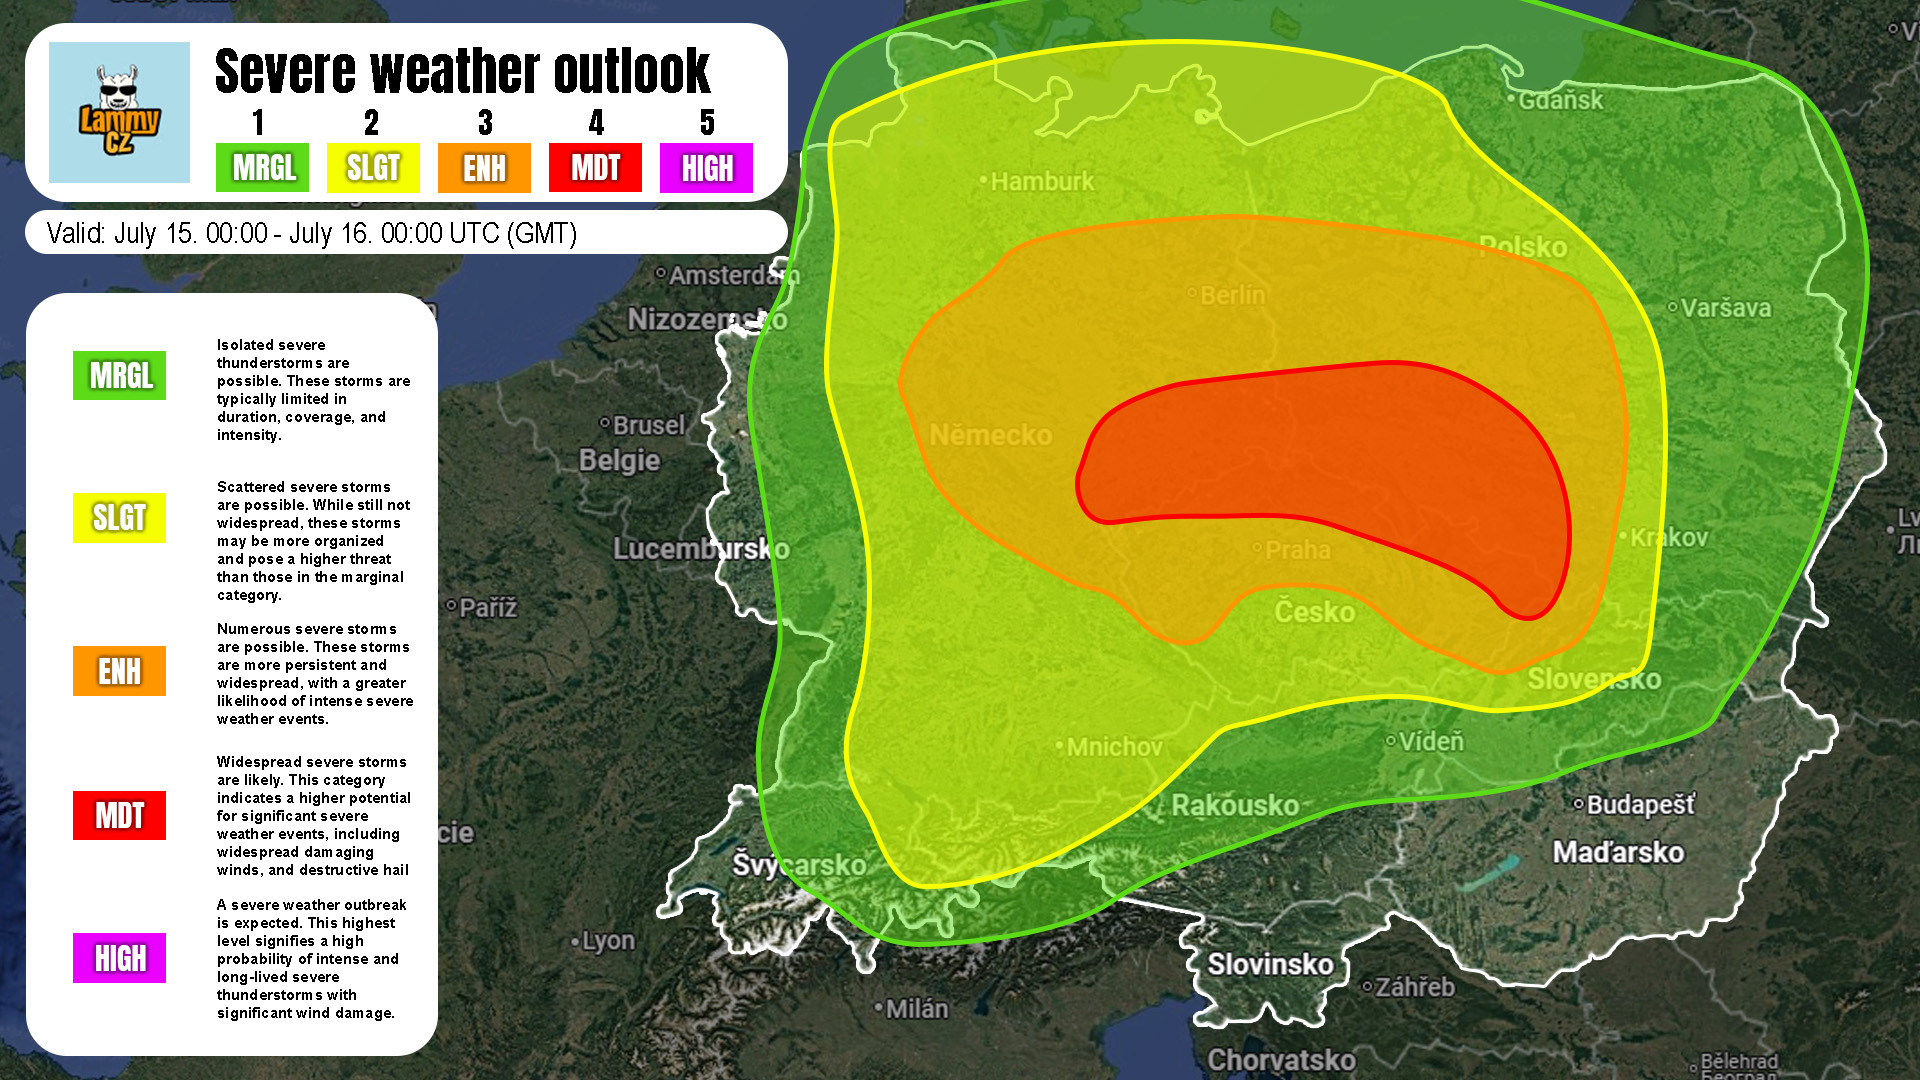
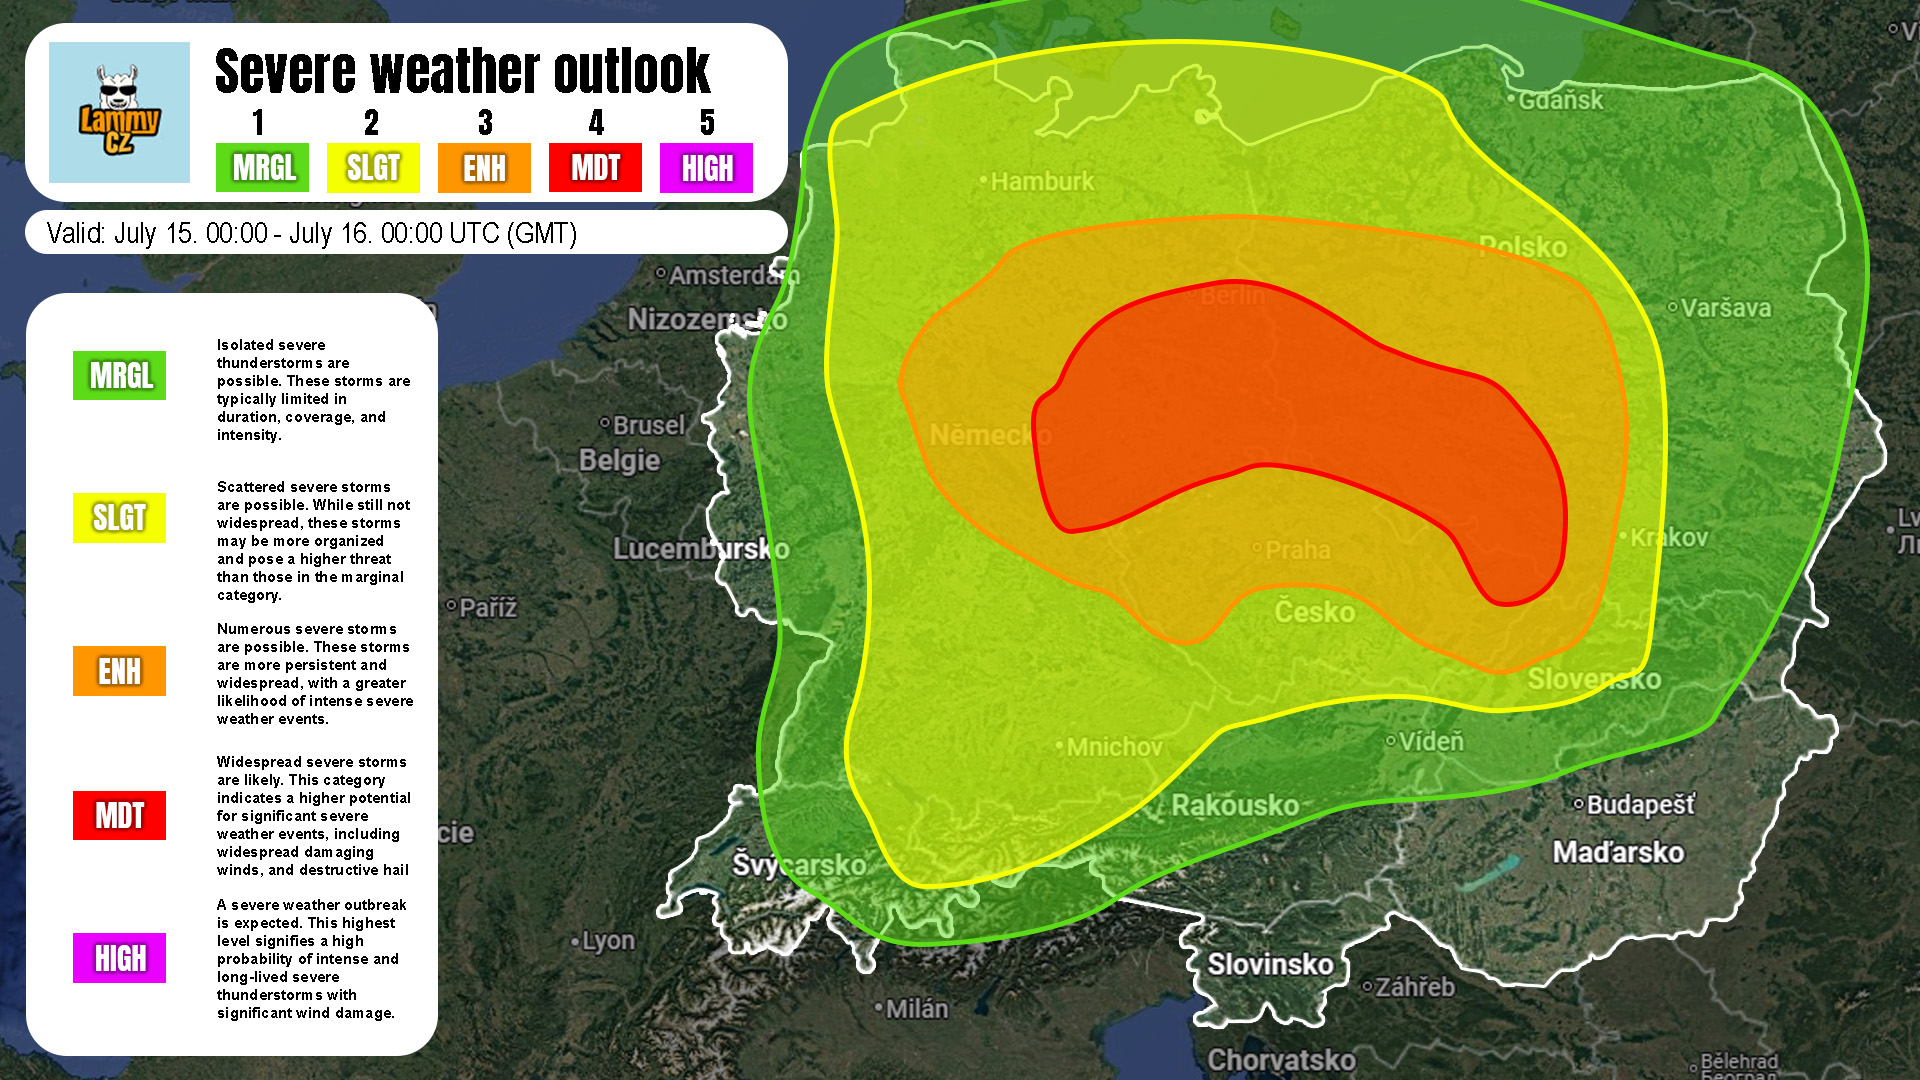
2025-07-15-update-mdt

Changed region(s): [[0.5312, 0.2444, 0.8438, 0.5806], [0.7812, 0.3667, 0.8125, 0.3972]]

diff --git a/data/forecasts/2025-07-15.md b/data/forecasts/2025-07-15.md
@@ -5,6 +5,14 @@ threatLevel: Moderate
 mapImage: /maps/2025-07-15.jpg
 ---
 
+## Updated outlook as of 7:00 UTC (GMT):
+
+Based on the latest model guidance, I’ve decided to keep the Moderate (MDT) risk in place. However, let me be clear right from the start — this is a very uncertain MDT risk. Do not expect widespread severe weather conditions across the entire risk area.
+
+I’ve spent about an hour reviewing all the model data again, and I genuinely believe an MDT risk could materialize if things evolve as many high-resolution models suggest. For instance, ICON-D2, ALADIN, and even ICON-RUC are showing a very similar system developing over Germany. While we can’t definitively call it an MCS, it does appear that it could briefly take on MCS characteristics over Germany before weakening as it moves into Czechia.
+
+Even so, some models are showing gusts exceeding 90 km/h in parts of Czechia, which would justify maintaining the MDT risk. While I don’t expect conditions this strong outside of Germany, several models do, which is why I’ve decided to expand the MDT risk slightly northward into Germany. This will be the final update to the outlook. Apart from this MDT risk adjustment, no other changes have been made to the forecast — the models have consistently depicted this scenario well since yesterday. Please understand that this MDT risk reflects a "not entirely confident" situation. But in such cases, it’s often better to err on the side of caution by issuing a broader warning, rather than underestimating the event and being caught off guard.
+
 ## Overview of the Situation
 
 A significant severe weather event is expected to unfold across central Europe today. A Moderate Risk (MDT) area has been introduced for parts of Germany, Czechia, and Poland, where models show a progressive storm system forming during the morning in the Slight Risk (SLGT) area and intensifying throughout the day. The system is forecast to reach peak strength by the afternoon across Germany, before shifting eastward into Czechia and Poland, where it is expected to gradually weaken during the evening hours.

diff --git a/data/forecasts/2025-07-14.md b/data/forecasts/2025-07-14.md
@@ -15,7 +15,6 @@ The Poland ENH Risk is supported by robust CAPE values, sufficient low-level moi
 
 Elsewhere, while a Slight Risk remains in place surrounding these two enhanced zones, the area has been trimmed where confidence in storm coverage or severity has decreased. Marginal areas still exist outside the SLGT boundary, but any storms there are expected to remain isolated and less intense.
 
-
 ## Overview of the Situation
 
 On 14 July 2025, an Enhanced Risk for severe thunderstorms is in place over parts of central and eastern Germany, supported by strong instability and deep-layer shear. A surrounding Slight Risk spans adjacent parts of Germany, Austria, Poland, and Czechia, where conditions will also support scattered strong to severe storms, though with slightly less organization. A broader Marginal Risk encompasses the region, where isolated thunderstorms or showers may develop, though severe parameters remain low.
